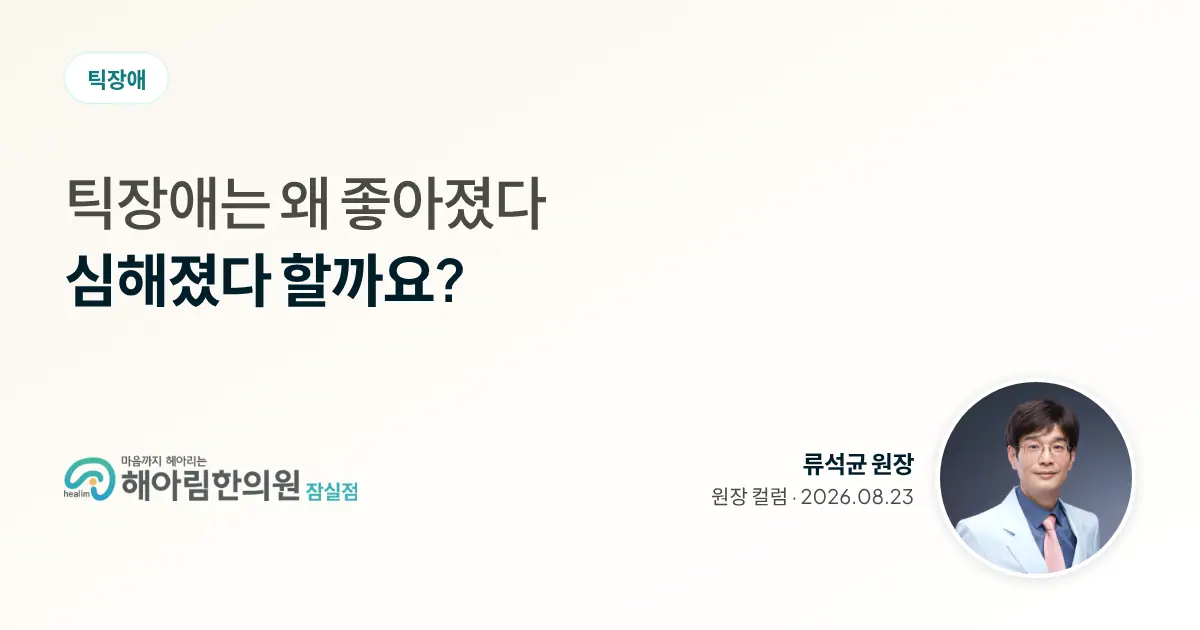
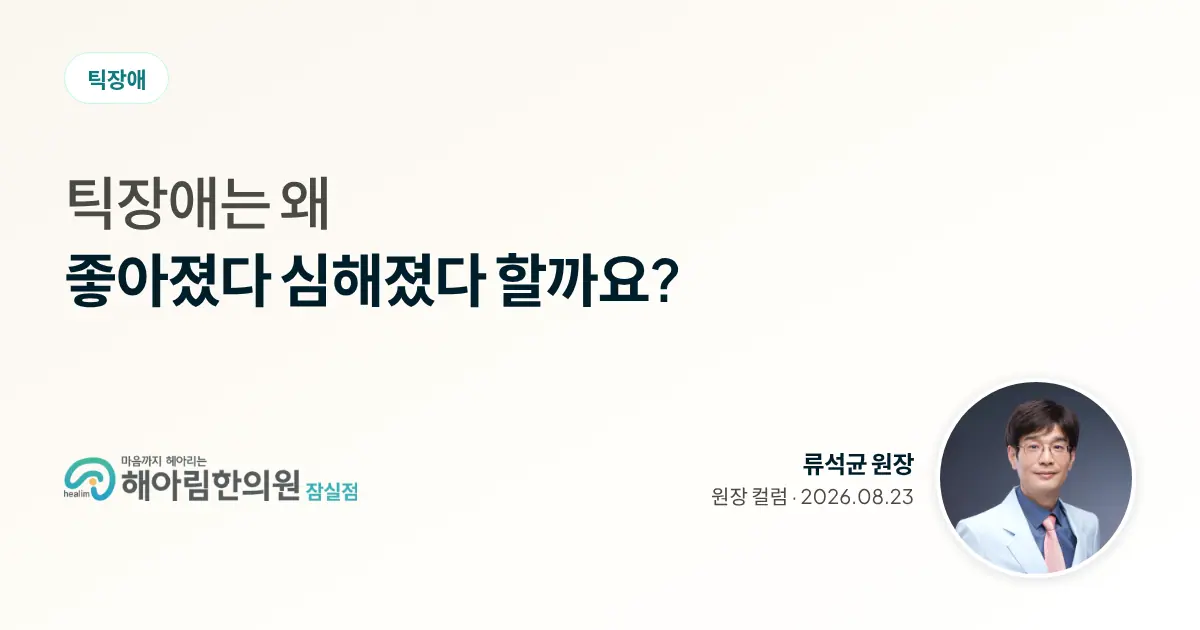
컬럼 공유 카드 2단계 — 화면과 Actions 에 연결한다
1단계에서 만든 카드를 실제로 쓰게 한다.

 - layouts/_default/baseof.html      컬럼의 og:image 를 그 글의 카드로.
                                     og:image:alt 도 글 제목으로 바꾼다
 - layouts/_partials/schema.html     Article 의 image 도 그 글의 카드로.
                                     카드가 없으면 공용 카드로 물러난다
 - layouts/_partials/column-cards.html  목록·게시판 카드 위에 썸네일.
                                     여백을 <a> 에서 안쪽 div 로 옮겼다
 - static/admin/config.yml           「공유 카드 문구」(card_headline) 칸.
                                     비워 두면 제목이 자동으로 쓰인다
 - .github/workflows/column-cards.yml  master 에 컬럼이 올라오면 없는 카드를
                                     만들어 되돌려 커밋한다. [skip ci] 로
                                     자기 커밋에 다시 걸리지 않게 했다

생성기에 「무엇으로 만들었는지」를 기록하게 고쳤다(tools/column-cards.state.json).
파일이 있는지만 보면 제목이나 card_headline 을 고쳐도 옛 그림이 남는다.
지워진 글의 카드도 함께 지운다.
 - 두 번째 실행: 만든 카드 0장, 그대로 둔 것 34장
 - card_headline 을 더한 뒤: 만든 카드 1장, 그대로 둔 것 33장

why-tics-wax-and-wane 에 card_headline 을 넣었다 — 자동 가르기가 유일하게
어색했던 글이다(「좋아졌다 / 심해졌다」가 갈렸다). 문구만 바꾸며 본문은
그대로다. 생성기가 제대로 읽는지 확인하는 보기이기도 하다.

확인 — hugo --gc 통과, check-mobile 빠짐 없음, check-column 오류 0건,
세 yaml 파싱 확인. 390·767·950·1280px 가로 넘침 0.
컬럼의 og:image·Article image 가 그 글의 카드를 가리키는 것,
컬럼이 아닌 쪽은 공용 카드 그대로인 것을 산출물에서 확인했다.

Claude-Session: https://claude.ai/code/session_0183q4vh2xd37m6SoykVTDq4

Changed region(s): [[0.2158, 0.3921, 0.5858, 0.4825], [0.2775, 0.2714, 0.4625, 0.3619], [0.0308, 0.3921, 0.1542, 0.4825]]

diff --git a/tools/make-column-cards.js b/tools/make-column-cards.js
@@ -23,6 +23,7 @@
  * word-break: keep-all 이 그 문제를 푼다. 그래서 Cloudflare 빌드가 아니라
  * GitHub Actions 에서 미리 만들어 저장소에 넣는다.
  */
+const crypto = require('crypto');
 const fs = require('fs');
 const path = require('path');
 const os = require('os');
@@ -32,6 +33,10 @@ const { chromium } = require('playwright');
 
 const ROOT = path.resolve(__dirname, '..');
 const OUT = path.join(ROOT, 'assets/media/column-cards');
+/* 무엇으로 만든 카드인지 적어 둔다 — 제목이나 card_headline 을 고치면
+   그림도 다시 만들어야 하는데, 파일이 있는지만 보면 옛 그림이 남는다.
+   저장소에 함께 커밋한다(화면에 나가지 않는다). */
+const STATE = path.join(__dirname, 'column-cards.state.json');
 const PORT = 8899;
 
 const args = process.argv.slice(2);
@@ -155,15 +160,22 @@ function html({ tag, a, b, t1, t2, size, docName, docPhoto, date }) {
 
   const dir = path.join(ROOT, 'content/column');
   const made = [], skipped = [], problems = [];
+  const was = fs.existsSync(STATE) ? JSON.parse(fs.readFileSync(STATE, 'utf8')) : {};
+  const state = {}, alive = new Set();
 
   for (const file of fs.readdirSync(dir).sort()) {
     if (!file.endsWith('.md') || file === '_index.md') continue;
     const slug = file.replace(/\.md$/, '');
     if (ONLY && slug !== ONLY) continue;
     const dest = path.join(OUT, slug + '.webp');
-    if (!FORCE && fs.existsSync(dest)) { skipped.push(slug); continue; }
-
     const fm = readFrontMatter(path.join(dir, file));
+    const stamp = crypto.createHash('sha1').update(JSON.stringify([
+      fm.title, fm.card_headline, fm.tags, fm.authors, String(fm.date || ''),
+    ])).digest('hex').slice(0, 16);
+    alive.add(slug);
+    state[slug] = stamp;
+    if (!FORCE && fs.existsSync(dest) && was[slug] === stamp) { skipped.push(slug); continue; }
+
     const tags = (fm.tags || []).filter(t => t !== '칼럼');
     const tag = tags[0] || '';
     const [a, b] = (tintData.tints || {})[tag] || tintData.default;
@@ -196,7 +208,17 @@ function html({ tag, a, b, t1, t2, size, docName, docPhoto, date }) {
   srv.close();
   fs.rmSync(serveDir, { recursive: true, force: true });
 
-  console.log(`만든 카드 ${made.length}장` + (skipped.length ? `, 이미 있어 건너뛴 것 ${skipped.length}장` : ''));
+  /* 지워진 글의 카드는 남겨 두지 않는다 */
+  const gone = [];
+  for (const f of fs.readdirSync(OUT)) {
+    if (!f.endsWith('.webp')) continue;
+    const slug = f.replace(/\.webp$/, '');
+    if (!alive.has(slug) && !ONLY) { fs.unlinkSync(path.join(OUT, f)); gone.push(slug); }
+  }
+  if (!ONLY) fs.writeFileSync(STATE, JSON.stringify(state, null, 1) + '\n');
+
+  console.log(`만든 카드 ${made.length}장` + (skipped.length ? `, 그대로 둔 것 ${skipped.length}장` : '')
+    + (gone.length ? `, 지운 것 ${gone.length}장` : ''));
   for (const p of problems) console.log('  ! ' + p);
   if (problems.length) process.exitCode = 1;
 })();

diff --git a/layouts/_partials/column-cards.html b/layouts/_partials/column-cards.html
@@ -12,9 +12,19 @@
   {{ $topics := collections.Complement (slice "칼럼") .Params.tags }}
   {{ $authorSlug := "" }}{{ with .Params.authors }}{{ $authorSlug = index . 0 }}{{ end }}
   {{ $author := index site.Data.authors $authorSlug }}
-  <a href="{{ .RelPermalink }}" data-tags="{{ delimit $topics "," }}" style="position: relative; overflow: hidden; display: flex; flex-direction: column; background: #FFFFFF; border: 1px solid #E8EDEB; border-radius: 12px; padding: 34px 30px 30px; color: #001E2B; transition: box-shadow 170ms cubic-bezier(0.4,0,0.2,1), transform 170ms cubic-bezier(0.4,0,0.2,1);" class="card-lift-ink">
+  {{/* 글마다 만들어 둔 카드 그림. tools/make-column-cards.js 가 만든다.
+       아직 없는 글(초안 단계)에는 붙지 않고 글자만 나온다 — 예전 모양 그대로다. */}}
+  {{ $card := "" }}
+  {{ with .File }}{{ with resources.Get (printf "media/column-cards/%s.webp" .BaseFileName) }}{{ $card = . }}{{ end }}{{ end }}
+  <a href="{{ .RelPermalink }}" data-tags="{{ delimit $topics "," }}" style="position: relative; overflow: hidden; display: flex; flex-direction: column; background: #FFFFFF; border: 1px solid #E8EDEB; border-radius: 12px; color: #001E2B; transition: box-shadow 170ms cubic-bezier(0.4,0,0.2,1), transform 170ms cubic-bezier(0.4,0,0.2,1);" class="card-lift-ink">
     {{/* 카드 윗변의 청록 띠. 격자에서 카드 경계를 또렷하게 한다. */}}
-    <div style="position: absolute; top: 0; left: 0; right: 0; height: 4px; background: #0F7A7E;"></div>
+    <div style="position: absolute; top: 0; left: 0; right: 0; height: 4px; background: #0F7A7E; z-index: 1;"></div>
+    {{ with $card }}
+    {{ $t := .Resize "760x webp q80 photo" }}
+    <img src="{{ $t.RelPermalink }}" width="{{ $t.Width }}" height="{{ $t.Height }}" alt="" style="width: 100%; height: auto; display: block;" loading="lazy" decoding="async" />
+    {{ end }}
+    {{/* 글자 쪽 여백. 그림이 카드 끝까지 닿아야 해서 <a> 가 아니라 여기에 준다. */}}
+    <div style="display: flex; flex-direction: column; flex: 1 1 auto; padding: 34px 30px 30px;">
     <div style="display: flex; align-items: center; gap: 8px; margin-bottom: 14px;">
       {{/* 질환 이름 알약. 홈의 치료 방법 칩과 같은 모양·같은 색을 쓴다. */}}
       <span style="font-size: 12px; font-weight: 600; color: #0F7A7E; background: #E3FCF7; border-radius: 9999px; padding: 5px 12px;">{{ delimit $topics " · " }}</span>
@@ -25,6 +35,7 @@
       {{ partial "author-photo.html" (dict "slug" $authorSlug "size" 32 "alt" $author.name.display) }}
       <span style="font-size: 13px; color: #6B6960;">{{ $author.name.display }} · {{ .Date.Format "2006.01.02" }}</span>
       <span style="margin-left: auto; font-size: 15px; font-weight: 600; color: #0F7A7E;">→</span>
+    </div>
     </div>
   </a>
   {{ end }}

diff --git a/layouts/_partials/schema.html b/layouts/_partials/schema.html
@@ -302,10 +302,21 @@
         "inLanguage" "ko-KR"
       -}}
       {{/* 대표 이미지 — 구글이 Article 에 권장하는 항목이다. 카톡 미리보기 카드와
-           같은 그림(media/og-card.jpg, 1200×630)을 쓴다. 파일이 없으면 붙이지 않는다. */}}
-      {{- with resources.Get "media/og-card.jpg" -}}
-        {{- $i := .Process "webp q82 photo" -}}
-        {{- $a = merge $a (dict "image" (dict "@type" "ImageObject" "url" $i.Permalink "width" $i.Width "height" $i.Height)) -}}
+           같은 그림을 쓴다. 글마다 만들어 둔 카드가 있으면 그것을, 없으면 공용
+           카드(media/og-card.jpg)를 쓴다. 둘 다 없으면 붙이지 않는다. */}}
+      {{- $cardImg := "" -}}
+      {{- with .File -}}
+        {{- with resources.Get (printf "media/column-cards/%s.webp" .BaseFileName) -}}
+          {{- $cardImg = . -}}
+        {{- end -}}
+      {{- end -}}
+      {{- if $cardImg -}}
+        {{- $a = merge $a (dict "image" (dict "@type" "ImageObject" "url" $cardImg.Permalink "width" $cardImg.Width "height" $cardImg.Height)) -}}
+      {{- else -}}
+        {{- with resources.Get "media/og-card.jpg" -}}
+          {{- $i := .Process "webp q82 photo" -}}
+          {{- $a = merge $a (dict "image" (dict "@type" "ImageObject" "url" $i.Permalink "width" $i.Width "height" $i.Height)) -}}
+        {{- end -}}
       {{- end -}}
       {{/* 이 글이 다루는 질환 — 글의 주제 태그(「칼럼」 제외)를 질환 페이지 제목과
            맞춰 찾는다. 「불안장애」 태그는 「공황장애 · 불안장애」 페이지에 걸린다.

diff --git a/layouts/_default/baseof.html b/layouts/_default/baseof.html
@@ -50,7 +50,19 @@
   {{- $ogImg = (.Process "webp q82 photo").Permalink -}}
 {{- end -}}
 {{/* 그림 설명 — og 와 트위터 두 곳이 같은 값을 쓴다. 그림을 바꾸면 이 한 줄만 고친다. */}}
-{{- $ogAlt := "해아림한의원 잠실점 류석균 원장과 석선희 원장" }}
+{{- $ogAlt := "해아림한의원 잠실점 류석균 원장과 석선희 원장" -}}
+{{/* 원장 컬럼은 글마다 만들어 둔 카드를 쓴다(assets/media/column-cards/<슬러그>.webp).
+     tools/make-column-cards.js 가 만들고 .github/workflows/column-cards.yml 이 돌린다.
+     카드가 아직 없는 글(초안 단계)은 위의 공용 카드가 그대로 나간다.
+     크기는 1200×630 으로 아래 og:image:width·height 와 같다. */}}
+{{- if eq .Section "column" -}}
+  {{- with .File -}}
+    {{- with resources.Get (printf "media/column-cards/%s.webp" .BaseFileName) -}}
+      {{- $ogImg = .Permalink -}}
+      {{- $ogAlt = $ogTitle -}}
+    {{- end -}}
+  {{- end -}}
+{{- end }}
 <meta property="og:type" content="{{ cond (eq .Section "column") "article" "website" }}" />
 <meta property="og:site_name" content="{{ site.Title }}" />
 <meta property="og:locale" content="ko_KR" />

diff --git a/content/column/why-tics-wax-and-wane.md b/content/column/why-tics-wax-and-wane.md
@@ -1,6 +1,7 @@
 ---
 title: "틱장애는 왜 좋아졌다 심해졌다 할까요?"
 description: "틱장애 증상이 좋아졌다 심해지는 증감 현상과 수면·긴장·환경의 영향을 설명합니다. 지적할수록 심해 보이는 이유, 다른 질환을 확인해야 하는 경우와 부모가 살필 점을 안내합니다."
+card_headline: "틱장애는 왜 / 좋아졌다 심해졌다 할까요?"
 title_seo: "틱이 심해졌다 좋아지는 이유"
 summary: "틱장애 증상이 좋아졌다 심해지는 증감 현상과 수면·긴장·환경의 영향을 설명하고 부모가 확인할 점을 안내합니다."
 date: 2026-08-23T09:50:00+09:00
